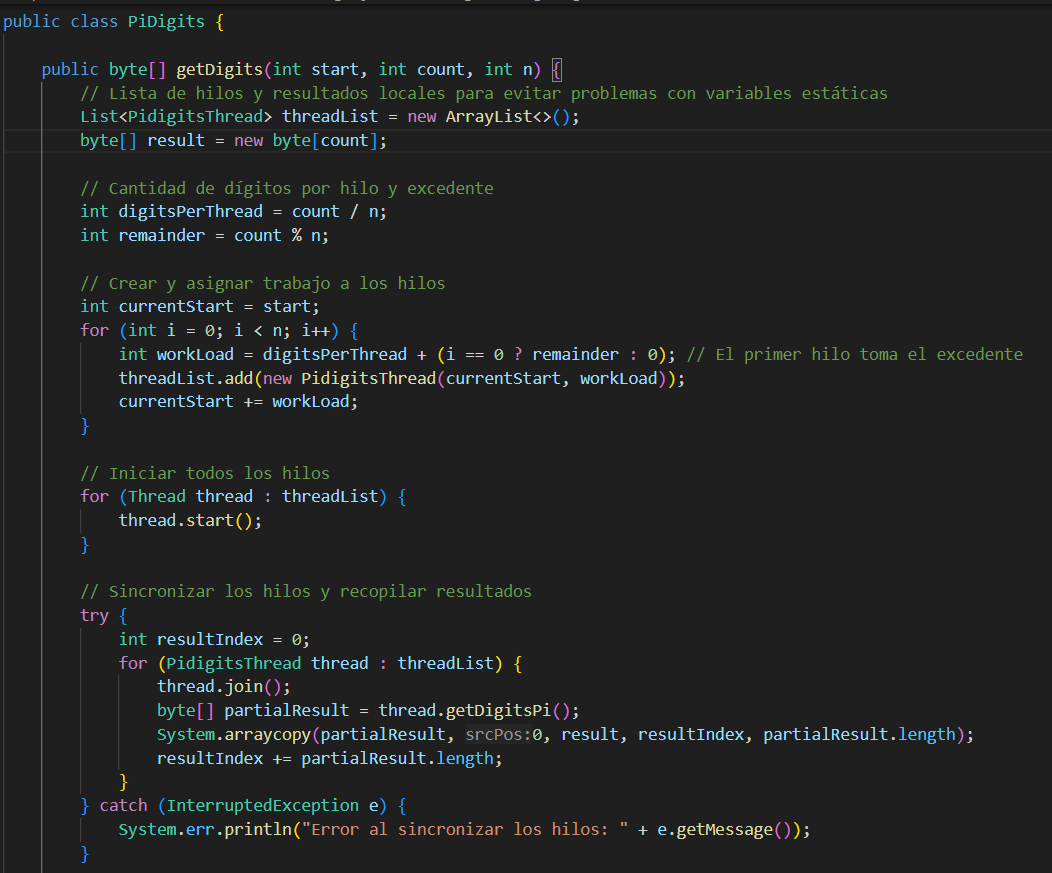
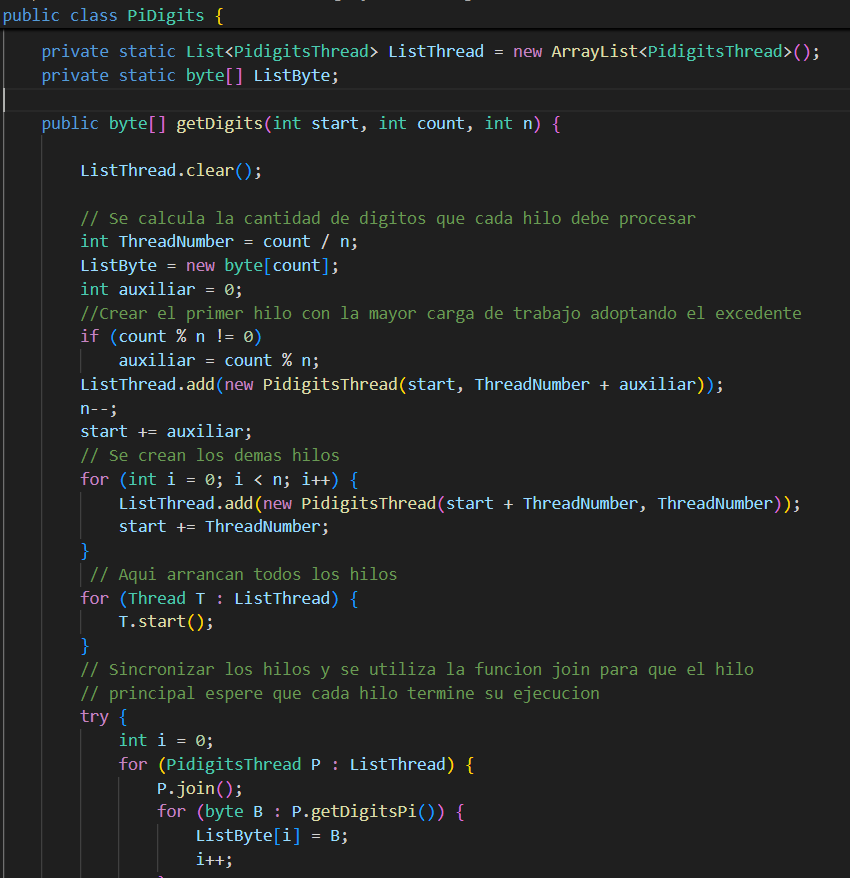
update

diff --git a/src/main/java/edu/eci/arsw/math/PiDigits.java b/src/main/java/edu/eci/arsw/math/PiDigits.java
@@ -3,45 +3,71 @@ package edu.eci.arsw.math;
 import java.util.ArrayList;
 import java.util.List;
 
-import edu.eci.arsw.threads.PidigitsThread;
+import edu.eci.arsw.threads.*;
 
+///  <summary>
+///  An implementation of the Bailey-Borwein-Plouffe formula for calculating hexadecimal
+///  digits of pi.
+///  https://en.wikipedia.org/wiki/Bailey%E2%80%93Borwein%E2%80%93Plouffe_formula
+///  *** Translated from C# code: https://github.com/mmoroney/DigitsOfPi ***
+///  </summary>
 public class PiDigits {
 
+    private static List<PidigitsThread> ListThread = new ArrayList<PidigitsThread>();
+    private static byte[] ListByte;
+
+    /**
+     * Returns a range of hexadecimal digits of pi.
+     * 
+     * @param start The starting location of the range.
+     * @param count The number of digits to return
+     * @return An array containing the hexadecimal digits.
+     */
     public byte[] getDigits(int start, int count, int n) {
-        // Lista de hilos y resultados locales para evitar problemas con variables estáticas
-        List<PidigitsThread> threadList = new ArrayList<>();
-        byte[] result = new byte[count];
 
-        // Cantidad de dígitos por hilo y excedente
-        int digitsPerThread = count / n;
-        int remainder = count % n;
+        // Reiniciar la lista de hilos eliminando cualquier hilo que este previamente guardado
 
-        // Crear y asignar trabajo a los hilos
-        int currentStart = start;
+
+        // Se calcula la cantidad de digitos que cada hilo debe procesar
+        int ThreadNumber = count / n;
+        ListByte = new byte[count];
+        int auxiliar = 0;
+
+        //Crear el primer hilo con la mayor carga de trabajo adoptando el excendente
+        if (count % n != 0)
+            auxiliar = count % n;
+        ListThread.add(new PidigitsThread(start, ThreadNumber + auxiliar));
+        n--;
+        start += auxiliar;
+        
+        // Se crean los demas hilos
         for (int i = 0; i < n; i++) {
-            int workLoad = digitsPerThread + (i == 0 ? remainder : 0); // El primer hilo toma el excedente
-            threadList.add(new PidigitsThread(currentStart, workLoad));
-            currentStart += workLoad;
+            ListThread.add(new PidigitsThread(start + ThreadNumber, ThreadNumber));
+            start += ThreadNumber;
         }
 
-        // Iniciar todos los hilos
-        for (Thread thread : threadList) {
-            thread.start();
-        }
+         // Aqui arrancan todos los hilos
+        for (Thread T : ListThread) {
+            T.start();
 
-        // Sincronizar los hilos y recopilar resultados
+        }
+        // Sincronizar los hilos y se utiliza la funcion join para que el hilo
+        // principal espere que cada hilo termine su ejecucion
         try {
-            int resultIndex = 0;
-            for (PidigitsThread thread : threadList) {
-                thread.join();
-                byte[] partialResult = thread.getDigitsPi();
-                System.arraycopy(partialResult, 0, result, resultIndex, partialResult.length);
-                resultIndex += partialResult.length;
+            int i = 0;
+            for (PidigitsThread P : ListThread) {
+                P.join();
+                for (byte B : P.getDigitsPi()) {
+                    ListByte[i] = B;
+                    i++;
+                }
             }
-        } catch (InterruptedException e) {
-            System.err.println("Error al sincronizar los hilos: " + e.getMessage());
+        } catch (Exception e) {
+            System.out.println("Error en el Thread");
         }
+        byte[] digits = ListByte;
+        return digits;
 
-        return result;
     }
+
 }
